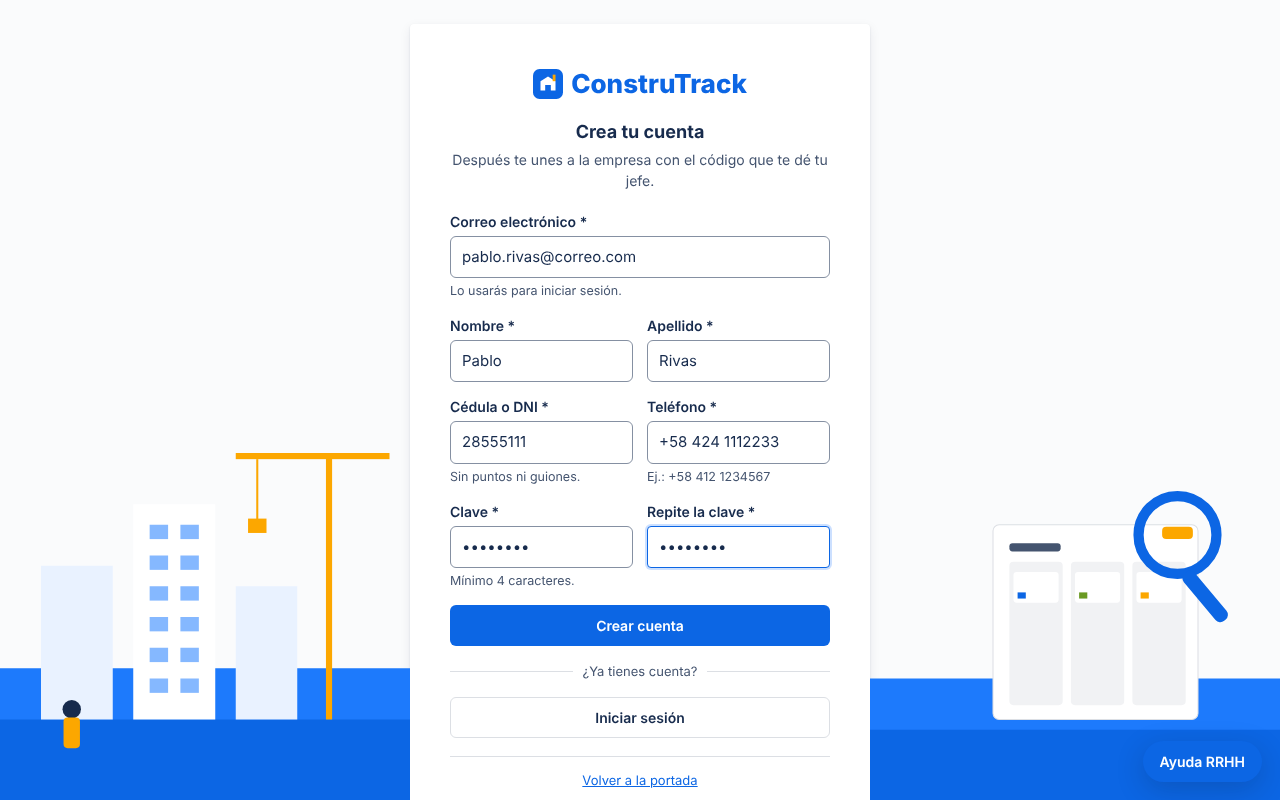
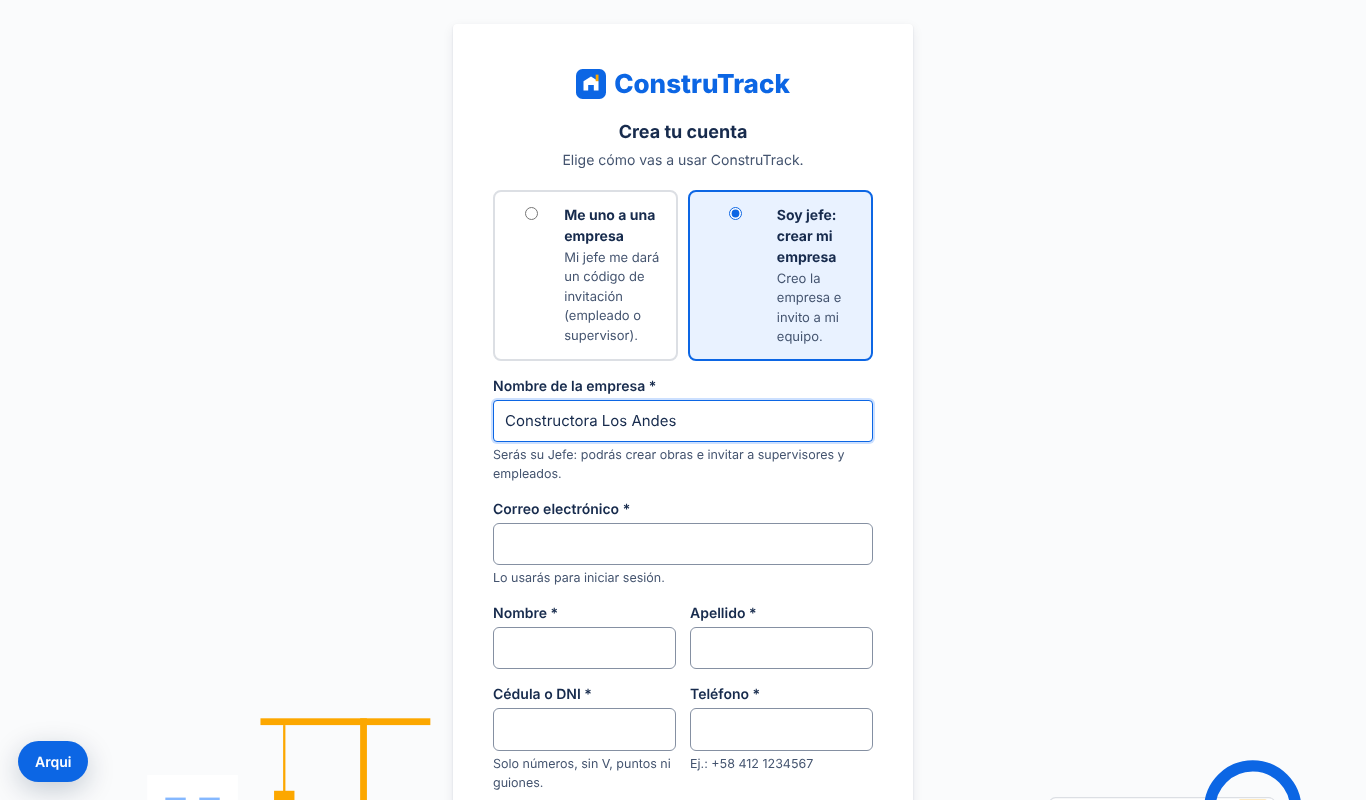
docs: capturas nuevas (web y Swing) y PDF de entrega actualizado
- capturas.py recorre las pantallas actuales en modo demostración: portada y
  «dos formas de empezar», registro del jefe, unirse, asistencia,
  incidencias, tablero, supervisión con horas extra, personal, historial con
  incidencias, obras, invitaciones, Arqui, celular y demo privada.
- Capturas de Swing con el diálogo de registro que permite crear empresa.
- El PDF incluye las capturas nuevas, el Sprint 7 y cómo usar el modo
  demostración.

Claude-Session: https://claude.ai/code/session_01KyDqg7X6ZwNdjfXwPa2YpY

diff --git a/tools/generador/capturas.py b/tools/generador/capturas.py
@@ -1,6 +1,7 @@
-"""Toma las capturas de la web con el servidor Java corriendo (http://localhost:8080 por defecto).
+"""Toma las capturas de la web con el servidor Java en modo demostración.
 
-Uso:   python tools/generador/capturas.py [URL]
+Uso:   java -cp out construtrack.App --sin-ventana --demo      (con DEMO_CLAVE=... para la demo privada)
+       python tools/generador/capturas.py [URL] [CLAVE_DEMO]
 Salida: docs/capturas/web_*.png
 """
 import sys
@@ -9,6 +10,7 @@ from pathlib import Path
 from playwright.sync_api import sync_playwright
 
 URL = sys.argv[1] if len(sys.argv) > 1 else "http://localhost:8080"
+CLAVE_DEMO = sys.argv[2] if len(sys.argv) > 2 else ""
 SALIDA = Path(__file__).resolve().parents[2] / "docs" / "capturas"
 
 
@@ -30,24 +32,85 @@ def entrar(pagina, identificador, clave):
 def vista(pagina, hash_, archivo, completa=False):
     pagina.goto(f"{URL}/app.html#{hash_}")
     pagina.wait_for_function("document.querySelector('.titulo-vista') && !document.querySelector('#principal .girando')")
+    pagina.wait_for_timeout(400)
+    pagina.screenshot(path=SALIDA / f"{archivo}.png", full_page=completa)
+
+
+def guardar(pagina, archivo, completa=False):
+    pagina.wait_for_timeout(500)
     pagina.screenshot(path=SALIDA / f"{archivo}.png", full_page=completa)
 
 
 with sync_playwright() as p:
     navegador = abrir_navegador(p)
-    nueva = lambda: navegador.new_context(viewport={"width": 1280, "height": 800}).new_page()
+
+    def nueva(**opciones):
+        return navegador.new_context(**({"viewport": {"width": 1366, "height": 800}} | opciones)).new_page()
+
     pagina = nueva()
     pagina.goto(URL)
-    pagina.wait_for_selector(".obra")
-    pagina.screenshot(path=SALIDA / "web_01_portada.png")
-    for identificador, clave, vistas in [
-        ("30000001", "emp123", [("asistencia", "web_05_empleado_asistencia"), ("incidencias", "web_06_incidencias")]),
-        ("20000001", "super123", [("tablero", "web_07_tablero"), ("supervision", "web_08_supervision")]),
-        ("carlos.mendez@construtrack.demo", "jefe123", [("personal", "web_09_personal"), ("invitaciones", "web_11_invitaciones")]),
-    ]:
+    pagina.wait_for_selector(".lp-obra")
+    guardar(pagina, "web_01_portada")
+    pagina.locator("#empezar").scroll_into_view_if_needed()
+    guardar(pagina, "web_14_dos_formas")
+
+    pagina.goto(URL + "/app.html#login")
+    pagina.fill("#identificador", "10000001")
+    pagina.fill("#clave", "mala")
+    pagina.click("#form-login button[type=submit]")
+    pagina.wait_for_selector("#form-login .mensaje-error:not(.oculto)")
+    guardar(pagina, "web_02_login_error")
+
+    pagina.goto(URL + "/app.html#registro?tipo=jefe")
+    pagina.wait_for_selector("#r-empresa")
+    pagina.fill("#r-empresa", "Constructora Los Andes")
+    guardar(pagina, "web_03_registro")
+
+    pagina.goto(URL + "/app.html#login")
+    pagina.fill("#identificador", "rosa.gutierrez@correo.com")
+    pagina.fill("#clave", "rosa1234")
+    pagina.click("#form-login button[type=submit]")
+    pagina.wait_for_selector("#form-unirse")
+    guardar(pagina, "web_04_unirse")
+
+    pagina = nueva()
+    entrar(pagina, "30000001", "emp123")
+    vista(pagina, "asistencia", "web_05_empleado_asistencia")
+    vista(pagina, "incidencias", "web_06_incidencias")
+
+    pagina = nueva()
+    entrar(pagina, "20000001", "super123")
+    vista(pagina, "tablero", "web_07_tablero")
+    vista(pagina, "supervision", "web_08_supervision", completa=True)
+
+    pagina = nueva()
+    entrar(pagina, "carlos.mendez@construtrack.demo", "jefe123")
+    vista(pagina, "personal", "web_09_personal")
+    pagina.click("text=+ Registrar persona")
+    pagina.wait_for_selector(".modal")
+    guardar(pagina, "web_10_registrar_persona")
+    pagina.keyboard.press("Escape")
+    pagina.locator("tr", has_text="José García").get_by_text("Historial").click()
+    pagina.wait_for_selector(".modal [data-pestana=h-incidencias]")
+    pagina.click("[data-pestana=h-incidencias]")
+    guardar(pagina, "web_15_historial")
+    pagina.keyboard.press("Escape")
+    vista(pagina, "obras", "web_16_obras")
+    vista(pagina, "invitaciones", "web_11_invitaciones")
+    pagina.click(".chat-boton")
+    pagina.fill(".chat-formulario input", "¿Quién llegó tarde hoy?")
+    pagina.press(".chat-formulario input", "Enter")
+    guardar(pagina, "web_12_chatbot")
+
+    movil = navegador.new_context(**p.devices["iPhone 13"]).new_page()
+    movil.goto(URL)
+    movil.wait_for_selector(".lp-obra")
+    guardar(movil, "web_13_movil")
+
+    if CLAVE_DEMO:
         pagina = nueva()
-        entrar(pagina, identificador, clave)
-        for hash_, archivo in vistas:
-            vista(pagina, hash_, archivo)
+        pagina.goto(URL + "/app.html#demo")
+        pagina.wait_for_selector("#clave-demo")
+        guardar(pagina, "web_17_demo_privada")
     navegador.close()
 print("Capturas en", SALIDA)

diff --git a/tools/generador/generar_pdf.py b/tools/generador/generar_pdf.py
@@ -76,11 +76,14 @@ DIAGRAMAS = [
 ]
 
 CAPTURAS = [
-    ("web_01_portada", "Portada pública"), ("web_02_login_error", "Inicio de sesión con mensaje de error"),
-    ("web_03_registro", "Crear cuenta"), ("web_04_unirse", "Unirse con código de invitación"),
+    ("web_01_portada", "Portada pública"), ("web_14_dos_formas", "Portada: dos formas de empezar"),
+    ("web_02_login_error", "Inicio de sesión con mensaje de error"),
+    ("web_03_registro", "Crear cuenta: el jefe crea su empresa"), ("web_04_unirse", "Unirse con código de invitación"),
     ("web_05_empleado_asistencia", "Empleado: Mi asistencia"), ("web_06_incidencias", "Reportar incidencia (reposo médico)"),
     ("web_07_tablero", "Supervisor: tablero de incidencias"), ("web_08_supervision", "Supervisor: alertas, estadísticas y reportes"),
-    ("web_09_personal", "Jefe: personal"), ("web_11_invitaciones", "Jefe: invitaciones"),
+    ("web_09_personal", "Jefe: personal"), ("web_15_historial", "Historial con incidencias"),
+    ("web_16_obras", "Obras: gestión por supervisor y jefe"), ("web_11_invitaciones", "Jefe: invitaciones por correo"),
+    ("web_17_demo_privada", "Demostración privada con clave"),
     ("swing_02_supervision", "Escritorio (Swing): supervisión"), ("swing_03_tablero", "Escritorio (Swing): tablero"),
 ]
 
@@ -144,8 +147,12 @@ def construir() -> str:
 <h1>6. Diagramas UML</h1>
 <p>Los diagramas de secuencia usan solo objetos de clases del modelo, como pidió la corrección.</p>{diagramas}
 <h1>7. Capturas del sistema</h1>{capturas}
-<h1>8. Ejecución y usuarios de prueba</h1>
+<h1>8. Ejecución y modo demostración</h1>
 <p><b>NetBeans:</b> abrir el proyecto <code>ConstruTrack</code> → Run (F6). Requiere JDK 17 o superior.</p>
+<p>El sistema arranca <b>vacío (modo producción)</b>, listo para clientes: el primer usuario se registra como jefe y crea su
+empresa. Para verlo con datos de ejemplo, agregar el argumento <code>--demo</code> (Project Properties → Run → Arguments).
+En la página publicada, la <b>demostración privada</b> está en <code>app.html#demo</code> y solo se entra con la clave de
+demostración. Usuarios del modo demostración (empresa «Constructora Demo»):</p>
 <table><tr><th>Rol</th><th>Correo</th><th>Cédula</th><th>Clave</th></tr>
 <tr><td>Jefe</td><td>carlos.mendez@construtrack.demo</td><td>10000001</td><td>jefe123</td></tr>
 <tr><td>Supervisora</td><td>ana.rodriguez@construtrack.demo</td><td>20000001</td><td>super123</td></tr>

diff --git a/README.md b/README.md
@@ -142,6 +142,8 @@ Para volver a empezar en local, borra `datos_construtrack.txt` y reinicia (vací
 | ![](docs/capturas/web_02_login_error.png) | ![](docs/capturas/web_07_tablero.png) |
 | **Supervisión: alertas y estadísticas** | **Invitaciones (Jefe)** |
 | ![](docs/capturas/web_08_supervision.png) | ![](docs/capturas/web_11_invitaciones.png) |
+| **Obras** | **Historial con incidencias** |
+| ![](docs/capturas/web_16_obras.png) | ![](docs/capturas/web_15_historial.png) |
 | **Escritorio (Swing): supervisión** | **Escritorio (Swing): tablero** |
 | ![](docs/capturas/swing_02_supervision.png) | ![](docs/capturas/swing_03_tablero.png) |
 
